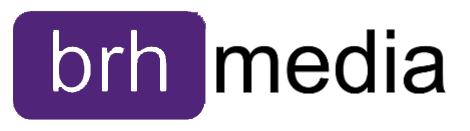
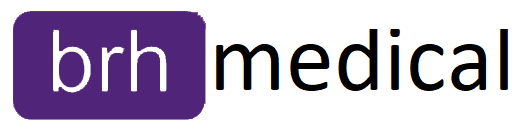
Changed branding

diff --git a/index.htm b/index.htm
@@ -151,7 +151,7 @@
 		<footer class="page-footer uq-purple">
 			<div class="footer-copyright">
 				<div class="container">
-					<span> Copyright (c) 2024 BRH Media </span>
+					<span>Copyright (c) 2024 BRH Medical</span>
 				</div>
 			</div>
 		</footer>

diff --git a/resources/css/main.css b/resources/css/main.css
@@ -20,7 +20,7 @@ img {
 }
 
 #logo-container {
-	padding: 10px;
+	padding: 5px;
 }
 
 .uq-purple {
